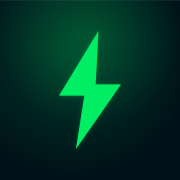
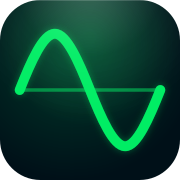
rebrand: TrailBlazer Ultra → souplesse Ultra
New name, new sine wave icon, header redesign, avatar profile indicator.
Sine wave represents fluid, smooth movement — the essence of souplesse.

Changed region(s): [[0.0, 0.0, 1.0, 0.8611], [0.7778, 0.7778, 1.0, 1.0], [0.0, 0.7778, 0.2222, 1.0]]

diff --git a/src/routes/+page.svelte b/src/routes/+page.svelte
@@ -288,10 +288,10 @@
   };
 
   const CHANGELOG: string[] = [
+    'souplesse Ultra — neuer Name, neues Icon. Die Sinuswelle steht für geschmeidige, fließende Bewegung.',
+    'Profil-Indikator — Avatar zeigt per grüner Border und Punkt ob ein Profil hinterlegt ist.',
     'Verpflegung — Wasser, Gels, Riegel und Kalorienbedarf direkt in den Ergebnissen geschätzt.',
     'Watch The Femmes — jedes Major Release trägt den Namen einer aktiven Profi-Fahrerin als Hommage an die Frauen des Radsports.',
-    'Distanzabweichung — +/− Badge zeigt wie weit die Route vom Zielwert abweicht.',
-    'FAQ im Footer — häufige Fragen zu Distanzabweichung, Routenfehler und Rückenwind-Score.',
   ];
 
   // --- State ---
@@ -369,7 +369,7 @@
         url.searchParams.set('addressdetails', '1');
         url.searchParams.set('accept-language', 'de');
         const res = await fetch(url.toString(), {
-          headers: { 'User-Agent': 'TrailBlazerUltra/1.4' }
+          headers: { 'User-Agent': 'SouplesseUltra/1.9' }
         });
         searchResults = await res.json();
       } catch { searchResults = []; }
@@ -414,14 +414,6 @@
   let compareOpen = $state(false);
   let userName = $state('');
   let nameInput = $state('');
-
-  function greeting() {
-    const h = new Date().getHours();
-    if (h >= 5  && h < 11) return 'Guten Morgen';
-    if (h >= 11 && h < 17) return 'Guten Tag';
-    if (h >= 17 && h < 22) return 'Guten Abend';
-    return 'Hallo';
-  }
 
   function saveSettings() {
     localStorage.setItem('tb_settings', JSON.stringify({
@@ -612,19 +604,19 @@
   async function shareRoute() {
     if (!route) return;
     const name = `Tour_${new Date().toISOString().slice(0, 10)}`;
-    const text = `${route.distanceKm} km · ${route.elevationGain} Hm · Start ${windDirectionLabel(route.startBearing)} · ${route.windScore}% Rückenwind — geplant mit TrailBlazer Ultra`;
+    const text = `${route.distanceKm} km · ${route.elevationGain} Hm · Start ${windDirectionLabel(route.startBearing)} · ${route.windScore}% Rückenwind — geplant mit souplesse Ultra`;
 
     try {
       if (navigator.canShare) {
         const gpx = generateGPX(route, name);
         const file = new File([gpx], `${name}.gpx`, { type: 'application/gpx+xml' });
         if (navigator.canShare({ files: [file] })) {
-          await navigator.share({ files: [file], title: 'TrailBlazer Ultra Route', text });
+          await navigator.share({ files: [file], title: 'souplesse Ultra Route', text });
           return;
         }
       }
       if (navigator.share) {
-        await navigator.share({ title: 'TrailBlazer Ultra Route', text });
+        await navigator.share({ title: 'souplesse Ultra Route', text });
         return;
       }
       await navigator.clipboard.writeText(text);
@@ -650,7 +642,7 @@
     ];
     if (msg.includes('GPS') || msg.includes('Standort')) return [
       'GPS-Zugriff im Browser erlauben.',
-      'Einstellungen → Datenschutz → Standort → TrailBlazer Ultra zulassen.',
+      'Einstellungen → Datenschutz → Standort → souplesse Ultra zulassen.',
     ];
     // No-route-found (most common)
     return [
@@ -714,7 +706,7 @@
 
 </script>
 
-<svelte:head><title>TrailBlazer Ultra</title></svelte:head>
+<svelte:head><title>souplesse Ultra</title></svelte:head>
 
 <div class="min-h-screen bg-mdb-surface font-sans">
 
@@ -784,29 +776,38 @@
             <g clip-path="url(#hdr-clip)">
               <rect width="512" height="512" fill="url(#hdr-bg)"/>
               <rect width="512" height="512" fill="url(#hdr-amb)"/>
-              <path d="M280 88 L168 272 H240 L216 424 L344 240 H272 L280 88Z" fill="#00ed64" fill-opacity="0.28" filter="url(#hdr-bloom)"/>
-              <path d="M280 88 L168 272 H240 L216 424 L344 240 H272 L280 88Z" fill="#00ed64"/>
+              <!-- zero line -->
+              <line x1="56" y1="256" x2="456" y2="256" stroke="#00ed64" stroke-width="10" stroke-opacity="0.5"/>
+              <!-- continuous sine wave -->
+              <path d="M 56 256 C 89 173 123 96 156 96 C 189 96 223 173 256 256 C 289 339 323 416 356 416 C 389 416 423 339 456 256" fill="none" stroke="#00ed64" stroke-width="28" stroke-linecap="round" stroke-opacity="0.35" filter="url(#hdr-bloom)"/>
+              <path d="M 56 256 C 89 173 123 96 156 96 C 189 96 223 173 256 256 C 289 339 323 416 356 416 C 389 416 423 339 456 256" fill="none" stroke="#00ed64" stroke-width="28" stroke-linecap="round"/>
               <rect width="512" height="512" fill="url(#hdr-glass)"/>
               <rect width="512" height="2.5" fill="white" fill-opacity="0.18"/>
             </g>
             <rect width="512" height="512" rx="115" ry="115" fill="none" stroke="white" stroke-opacity="0.10" stroke-width="3"/>
           </svg>
         </div>
-        <span class="text-base font-bold text-white tracking-tight">TrailBlazer <span class="text-mdb-green">Ultra</span></span>
+        <span class="text-base font-bold text-white tracking-tight">souplesse <span class="text-mdb-green">Ultra</span></span>
       </h1>
 
       <!-- Avatar -->
-      <button
-        onclick={() => profileOpen = true}
-        aria-label="Profil"
-        class="w-8 h-8 rounded-full border border-white/15 flex items-center justify-center active:opacity-70 transition-opacity flex-shrink-0 bg-white/[0.08]"
-      >
+      <div class="relative flex-shrink-0">
+        <button
+          onclick={() => profileOpen = true}
+          aria-label="Profil"
+          class="w-8 h-8 rounded-full border flex items-center justify-center active:opacity-70 transition-all duration-300 bg-white/[0.08]
+            {userName ? 'border-mdb-green shadow-[0_0_0_2px_rgba(0,237,100,0.15)]' : 'border-white/15'}"
+        >
+          {#if userName}
+            <UserRound size={15} color="white" strokeWidth={2} aria-hidden="true" />
+          {:else}
+            <UserRoundPlus size={15} color="white" strokeWidth={2} aria-hidden="true" />
+          {/if}
+        </button>
         {#if userName}
-          <UserRound size={15} color="white" strokeWidth={2} aria-hidden="true" />
-        {:else}
-          <UserRoundPlus size={15} color="white" strokeWidth={2} aria-hidden="true" />
+          <span class="absolute bottom-0 right-0 w-2 h-2 rounded-full bg-mdb-green border border-mdb-ink"></span>
         {/if}
-      </button>
+      </div>
 
     </div>
 
@@ -1279,9 +1280,6 @@
           </div>
         {/if}
 
-        </div>
-        {/key}
-
         <!-- Nutrition -->
         <div
           class="result-card bg-mdb-canvas rounded-mdb-lg border border-mdb-hairline p-4 space-y-3"
@@ -1321,6 +1319,9 @@
           {/if}
         </div>
 
+        </div>
+        {/key}
+
         <!-- Share + GPX Export -->
         <div class="result-card grid grid-cols-2 gap-2" style="animation-delay: 400ms">
           <button
@@ -1345,7 +1346,7 @@
         <!-- Reset -->
         <button
           onclick={() => { allRoutes = []; routeIndex = 0; weather = null; tips = []; location = null; timePicked = false; sessionStorage.removeItem('tb_session'); }}
-          class="result-card w-full border border-mdb-hairline-strong text-mdb-steel rounded-full py-3.5 text-sm font-medium active:scale-[0.97] transition-transform"
+          class="result-card w-full border border-mdb-hairline-strong text-mdb-steel rounded-full py-4 text-sm font-medium active:scale-[0.97] transition-transform"
           style="animation-delay: 480ms"
         >
           Neue Route planen
@@ -1362,50 +1363,7 @@
     <div class="px-5 pt-5 pb-2">
       <!-- App name -->
       <div class="flex items-center justify-center mb-4">
-        <span class="text-base font-bold text-mdb-ink tracking-tight flex items-center gap-1.5">
-          TrailBlazer
-          <div style="
-            border-radius: 22.4%;
-            overflow: hidden;
-            width: 22px; height: 22px;
-            flex-shrink: 0;
-            box-shadow: 0 0 0 1.5px rgba(0,237,100,0.45), 0 2px 6px rgba(0,0,0,0.4);
-          ">
-            <svg width="22" height="22" viewBox="0 0 512 512" xmlns="http://www.w3.org/2000/svg" aria-hidden="true" role="presentation">
-              <defs>
-                <radialGradient id="ftr-bg" cx="40%" cy="30%" r="70%">
-                  <stop offset="0%" stop-color="#013a2a"/>
-                  <stop offset="100%" stop-color="#001018"/>
-                </radialGradient>
-                <radialGradient id="ftr-amb" cx="50%" cy="20%" r="50%">
-                  <stop offset="0%" stop-color="#00ed64" stop-opacity="0.18"/>
-                  <stop offset="100%" stop-color="#00ed64" stop-opacity="0"/>
-                </radialGradient>
-                <radialGradient id="ftr-glass" cx="50%" cy="-10%" r="75%" gradientUnits="objectBoundingBox">
-                  <stop offset="0%"   stop-color="white" stop-opacity="0.24"/>
-                  <stop offset="55%"  stop-color="white" stop-opacity="0.04"/>
-                  <stop offset="100%" stop-color="white" stop-opacity="0"/>
-                </radialGradient>
-                <filter id="ftr-bloom" x="-25%" y="-25%" width="150%" height="150%">
-                  <feGaussianBlur in="SourceGraphic" stdDeviation="10" result="blur"/>
-                  <feMerge><feMergeNode in="blur"/><feMergeNode in="SourceGraphic"/></feMerge>
-                </filter>
-                <clipPath id="ftr-clip">
-                  <rect width="512" height="512" rx="115" ry="115"/>
-                </clipPath>
-              </defs>
-              <g clip-path="url(#ftr-clip)">
-                <rect width="512" height="512" fill="url(#ftr-bg)"/>
-                <rect width="512" height="512" fill="url(#ftr-amb)"/>
-                <path d="M280 88 L168 272 H240 L216 424 L344 240 H272 L280 88Z" fill="#00ed64" fill-opacity="0.28" filter="url(#ftr-bloom)"/>
-                <path d="M280 88 L168 272 H240 L216 424 L344 240 H272 L280 88Z" fill="#00ed64"/>
-                <rect width="512" height="512" fill="url(#ftr-glass)"/>
-                <rect width="512" height="2.5" fill="white" fill-opacity="0.18"/>
-              </g>
-            </svg>
-          </div>
-          <span class="text-mdb-green-mid">Ultra</span>
-        </span>
+        <span class="text-base font-bold text-mdb-ink tracking-tight">souplesse <span class="text-mdb-green">Ultra</span></span>
       </div>
       <!-- Links + copyright -->
       <div class="flex items-center justify-center gap-3">
@@ -1752,7 +1710,7 @@
   <ul class="space-y-3 text-sm text-white/70">
     <li class="flex gap-3 items-start">
       <span class="w-5 h-5 rounded-full bg-mdb-green flex-shrink-0 flex items-center justify-center text-mdb-ink text-xs font-bold">1</span>
-      <p><strong class="text-white">Profil & Einstellungen</strong> — Avatar-Icon oben links: Name hinterlegen, Standard-Untergrund, Steigung, Distanz und Durchschnittsgeschwindigkeit festlegen.</p>
+      <p><strong class="text-white">Profil & Einstellungen</strong> — Avatar-Icon oben rechts: Name hinterlegen, Standard-Untergrund, Steigung, Distanz und Durchschnittsgeschwindigkeit festlegen.</p>
     </li>
     <li class="flex gap-3 items-start">
       <span class="w-5 h-5 rounded-full bg-mdb-green flex-shrink-0 flex items-center justify-center text-mdb-ink text-xs font-bold">2</span>

diff --git a/src/app.html b/src/app.html
@@ -6,7 +6,7 @@
 		<meta name="mobile-web-app-capable" content="yes" />
 		<meta name="apple-mobile-web-app-capable" content="yes" />
 		<meta name="apple-mobile-web-app-status-bar-style" content="default" />
-		<meta name="apple-mobile-web-app-title" content="TrailBlazer Ultra" />
+		<meta name="apple-mobile-web-app-title" content="souplesse Ultra" />
 		<meta name="theme-color" content="#001e2b" />
 		<link rel="icon" href="/favicon.svg" type="image/svg+xml" />
 		<link rel="apple-touch-icon" href="/apple-touch-icon.png" />
